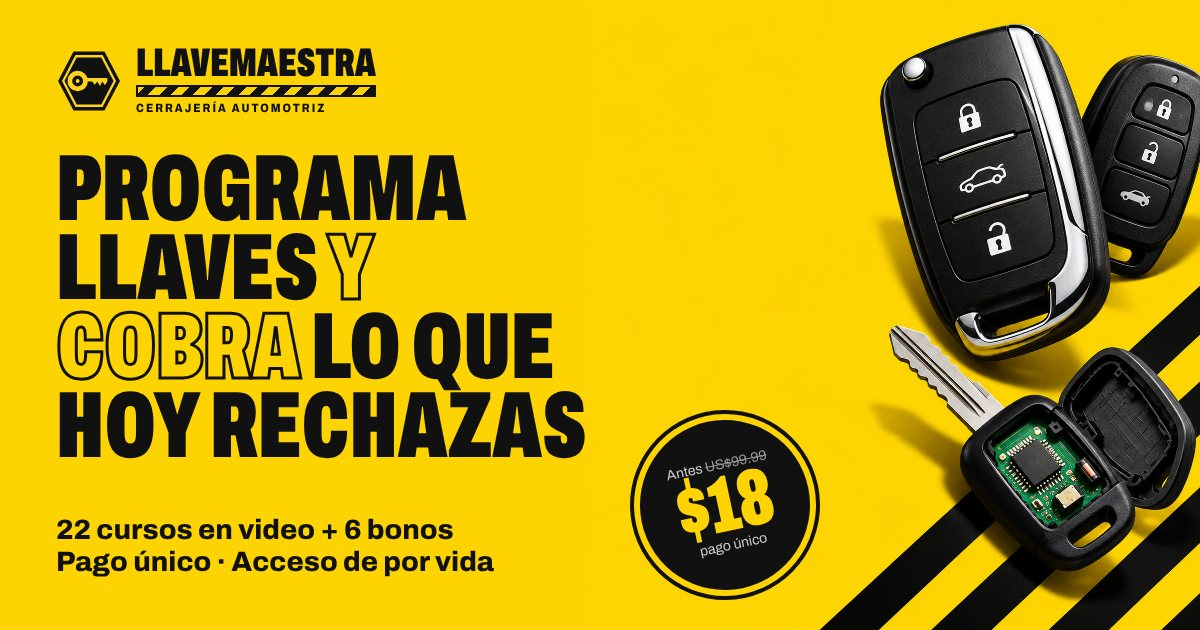
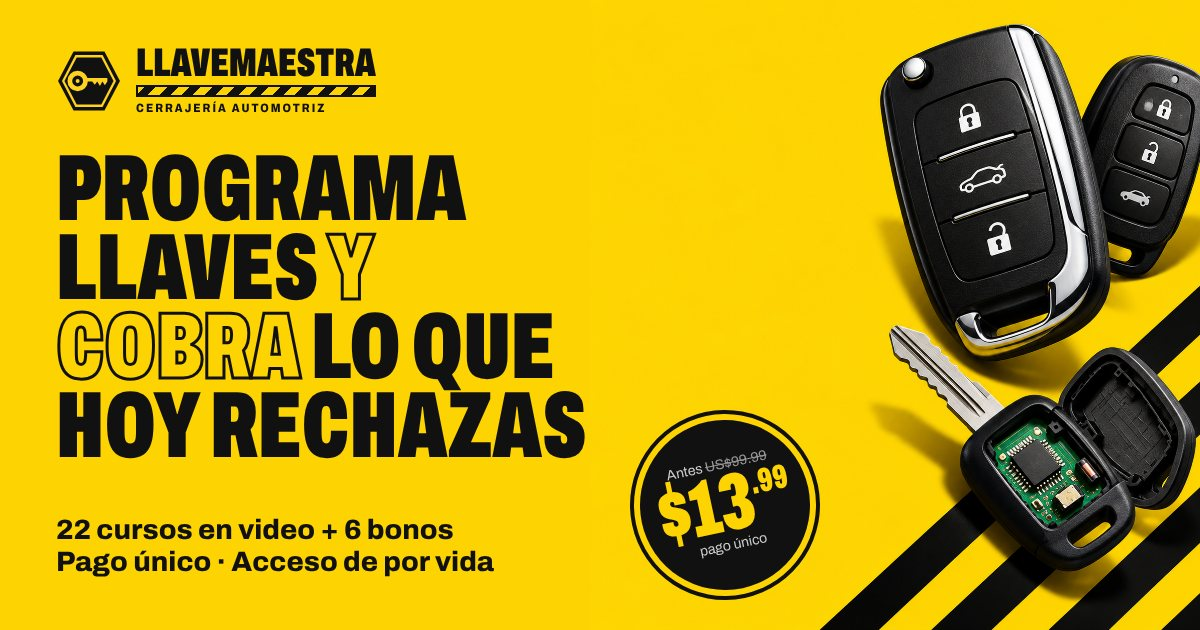
Precio nuevo: US$13.99 en toda la página, la imagen para compartir y los eventos de pago (Meta y TikTok)
Claude-Session: https://claude.ai/code/session_01EyoJfkpmuFfUU1exCTMhcR

Changed region(s): [[0.5242, 0.7238, 0.6783, 0.8746]]

diff --git a/index.html b/index.html
@@ -3,11 +3,11 @@
 <head>
 <meta charset="utf-8">
 <meta name="viewport" content="width=device-width, initial-scale=1">
-<title>Cerrajería Automotriz | 22 cursos en video + 6 bonos por US$18</title>
-<meta name="description" content="Aprende a programar llaves con chip, controles remotos e inmovilizadores en más de 45 marcas. 22 cursos en video + 6 bonos. Pago único de US$18, acceso de por vida y garantía de 7 días.">
-<meta property="og:title" content="Programa llaves y cobra lo que hoy rechazas: 22 cursos + 6 bonos por US$18">
+<title>Cerrajería Automotriz | 22 cursos en video + 6 bonos por US$13.99</title>
+<meta name="description" content="Aprende a programar llaves con chip, controles remotos e inmovilizadores en más de 45 marcas. 22 cursos en video + 6 bonos. Pago único de US$13.99, acceso de por vida y garantía de 7 días.">
+<meta property="og:title" content="Programa llaves y cobra lo que hoy rechazas: 22 cursos + 6 bonos por US$13.99">
 <meta property="og:description" content="Llaves con chip, controles e inmovilizadores en más de 45 marcas. Pago único, acceso de por vida y garantía de 7 días.">
-<meta property="og:image" content="https://cerrajeriamaster.online/img/compartir.jpg?v=3">
+<meta property="og:image" content="https://cerrajeriamaster.online/img/compartir.jpg?v=4">
 <meta property="og:url" content="https://cerrajeriamaster.online/">
 <meta property="og:image:width" content="1200">
 <meta property="og:image:height" content="630">
@@ -133,6 +133,7 @@ p{margin:0}
 .sticker{position:absolute;left:-64px;top:34px;z-index:2;width:200px;height:200px;border-radius:50%;background:var(--k);color:#fff;display:grid;place-items:center;text-align:center;transform:rotate(-12deg);box-shadow:0 0 0 7px var(--y),0 0 0 11px var(--k)}
 .sticker small{display:block;font-size:14px;color:#CFCFCF;font-weight:600}
 .sticker s{color:#9A9A9A;text-decoration-thickness:2px}
+.sticker b sup,.t-price sup{font-size:.42em;vertical-align:top;position:relative;top:.12em;margin-left:1px;letter-spacing:0}
 .sticker b{display:block;font-stretch:62%;font-weight:900;font-size:92px;line-height:.82;color:var(--y);letter-spacing:-.02em}
 @media (prefers-reduced-motion:no-preference){
   .sticker{animation:slap .7s cubic-bezier(.2,1.6,.4,1) .25s both}
@@ -428,12 +429,12 @@ body.st-on .wa{bottom:96px}
 </head>
 <body>
 
-<div class="topbar"><div class="wrap"><span>El precio de US$18 termina hoy en</span><span class="clock" role="timer" aria-live="off"><span data-cd="h">00</span>:<span data-cd="m">00</span>:<span data-cd="s">00</span></span></div></div>
+<div class="topbar"><div class="wrap"><span>El precio de US$13.99 termina hoy en</span><span class="clock" role="timer" aria-live="off"><span data-cd="h">00</span>:<span data-cd="m">00</span>:<span data-cd="s">00</span></span></div></div>
 
 <nav class="nav" aria-label="Principal"><div class="wrap">
 <a class="logo" href="#" aria-label="LlaveMaestra, inicio"><svg viewBox="0 0 64 64" aria-hidden="true"><path d="M17 3.5h30L62 32 47 60.5H17L2 32z" fill="#111111"/><path d="M19.5 8h25L57 32 44.5 56h-25L7 32z" fill="none" stroke="#FFD21F" stroke-width="2.2"/><circle cx="21" cy="32" r="7.6" fill="none" stroke="#FFD21F" stroke-width="4.6"/><circle cx="21" cy="32" r="1.9" fill="#FFD21F"/><path d="M28.2 29h21.6v3.6l-2.4 3.4-2.4-3.4-2.4 4.2-2.6-4.2-2.4 3-2.4-3h-7z" fill="#FFD21F"/></svg><span class="lw"><b>LlaveMaestra</b><i class="lt" aria-hidden="true"></i><small>Cerrajería automotriz</small></span></a>
 <div class="nav-links"><a href="#temario">Temario</a><a href="#bonos">Bonos</a><a href="#opiniones">Opiniones</a><a href="#oferta">Precio</a></div>
-<a class="nbtn" href="https://pay.hotmart.com/O107812947O?checkoutMode=10">Comprar<span class="ns">&nbsp;US$18</span></a>
+<a class="nbtn" href="https://pay.hotmart.com/O107812947O?checkoutMode=10">Comprar<span class="ns">&nbsp;US$13.99</span></a>
 </div></nav>
 <div class="tape" aria-hidden="true"></div>
 
@@ -442,11 +443,11 @@ body.st-on .wa{bottom:96px}
   <div class="proof"><span class="stars" aria-label="4.8 de 5"><svg viewBox="0 0 24 24" aria-hidden="true"><path fill="#111" d="M12 2.8l2.8 5.9 6.4.8-4.7 4.4 1.2 6.4L12 17.2l-5.7 3.1 1.2-6.4L2.8 9.5l6.4-.8z"/></svg><svg viewBox="0 0 24 24" aria-hidden="true"><path fill="#111" d="M12 2.8l2.8 5.9 6.4.8-4.7 4.4 1.2 6.4L12 17.2l-5.7 3.1 1.2-6.4L2.8 9.5l6.4-.8z"/></svg><svg viewBox="0 0 24 24" aria-hidden="true"><path fill="#111" d="M12 2.8l2.8 5.9 6.4.8-4.7 4.4 1.2 6.4L12 17.2l-5.7 3.1 1.2-6.4L2.8 9.5l6.4-.8z"/></svg><svg viewBox="0 0 24 24" aria-hidden="true"><path fill="#111" d="M12 2.8l2.8 5.9 6.4.8-4.7 4.4 1.2 6.4L12 17.2l-5.7 3.1 1.2-6.4L2.8 9.5l6.4-.8z"/></svg><svg viewBox="0 0 24 24" aria-hidden="true"><path fill="#111" d="M12 2.8l2.8 5.9 6.4.8-4.7 4.4 1.2 6.4L12 17.2l-5.7 3.1 1.2-6.4L2.8 9.5l6.4-.8z"/></svg></span><span>4.8 de valoración</span><span>+2.163 alumnos en Latinoamérica</span></div>
   <h1>Programa llaves <span class="o">y cobra</span> lo que hoy rechazas</h1>
   <p class="lead">22 cursos en video y 6 bonos para aprender llaves con chip, controles e inmovilizadores en más de 45 marcas. Desde el celular, a tu ritmo.</p>
-  <div class="hero-cta"><a class="btn tag-hero" href="https://pay.hotmart.com/O107812947O?checkoutMode=10">Quiero entrar por US$18</a><span class="g"><svg viewBox="0 0 24 24" aria-hidden="true"><path d="M12 22s8-4 8-10V5l-8-3-8 3v7c0 6 8 10 8 10z" fill="#111"/><path d="m8.5 12 2.5 2.5 4.5-5" fill="none" stroke="#FFD21F" stroke-width="2.4" stroke-linecap="round" stroke-linejoin="round"/></svg>Pago único. Garantía de 7 días por Hotmart.</span></div>
+  <div class="hero-cta"><a class="btn tag-hero" href="https://pay.hotmart.com/O107812947O?checkoutMode=10">Quiero entrar por US$13.99</a><span class="g"><svg viewBox="0 0 24 24" aria-hidden="true"><path d="M12 22s8-4 8-10V5l-8-3-8 3v7c0 6 8 10 8 10z" fill="#111"/><path d="m8.5 12 2.5 2.5 4.5-5" fill="none" stroke="#FFD21F" stroke-width="2.4" stroke-linecap="round" stroke-linejoin="round"/></svg>Pago único. Garantía de 7 días por Hotmart.</span></div>
 </div>
 <div class="stage">
   <div class="ph"><img src="img/fotos/llaves-1000.webp" srcset="img/fotos/llaves-640.webp 640w, img/fotos/llaves-1000.webp 1000w" sizes="(max-width:760px) 100vw, 45vw" alt="Llave de carro plegable, control remoto y llave con chip abierta sobre fondo amarillo" width="1000" height="1000" fetchpriority="high"></div>
-  <div class="sticker" aria-label="Antes 99.99 dólares, hoy 18 dólares, pago único"><div><small>Antes <s>US$99.99</s></small><b>$18</b><small>pago único</small></div></div>
+  <div class="sticker" aria-label="Antes 99.99 dólares, hoy 13.99 dólares, pago único"><div><small>Antes <s>US$99.99</s></small><b>$13<sup>.99</sup></b><small>pago único</small></div></div>
 </div>
 </div></header>
 
@@ -472,7 +473,7 @@ body.st-on .wa{bottom:96px}
   <div class="field"><label for="lc-n">Trabajos que rechazas por semana <output id="lc-no">2</output></label><input type="range" id="lc-n" min="1" max="15" value="2"></div>
   <div class="field"><label for="lc-p">Lo que cobras por trabajo <output id="lc-po">US$35</output></label><input type="range" id="lc-p" min="10" max="150" step="5" value="35"></div>
   <div class="calc-out"><div class="big"><small>Al mes</small><b id="lc-m">US$301</b></div><div><small>Al año</small><b id="lc-y">US$3.640</b></div></div>
-  <p class="calc-msg" id="lc-msg">El curso cuesta US$18: lo recuperas con tu primer trabajo.</p>
+  <p class="calc-msg" id="lc-msg">El curso cuesta US$13.99: lo recuperas con tu primer trabajo.</p>
   <a class="btn" href="https://pay.hotmart.com/O107812947O?checkoutMode=10">Quiero recuperar esa plata</a>
   <p class="fine">Ejemplo con 4,3 semanas por mes. Tus resultados dependen de tu práctica y tu zona.</p>
 </div>
@@ -516,7 +517,7 @@ body.st-on .wa{bottom:96px}
   <button type="button" class="bono" aria-label="Ver en grande el bono 5: Diagnóstico automotriz"><img src="img/bono-5-diagnostico.webp" data-full="img/bono-5-diagnostico.jpg" alt="Bono 5: Diagnóstico automotriz" width="400" height="400" loading="lazy" decoding="async"><span class="free">Gratis</span><div><small>Bono 5</small><b>Diagnóstico automotriz</b></div></button>
   <button type="button" class="bono" aria-label="Ver en grande el bono 6: Todo en un solo lugar"><img src="img/bono-6-todo.webp" data-full="img/bono-6-todo.jpg" alt="Bono 6: Todo en un solo lugar" width="400" height="400" loading="lazy" decoding="async"><span class="free">Gratis</span><div><small>Bono 6</small><b>Todo en un solo lugar</b></div></button>
 </div>
-<div class="cta-row"><a class="btn" href="https://pay.hotmart.com/O107812947O?checkoutMode=10">Quiero todo por US$18</a><p class="note">22 cursos + 6 bonos. Pago único. Garantía de 7 días.</p></div>
+<div class="cta-row"><a class="btn" href="https://pay.hotmart.com/O107812947O?checkoutMode=10">Quiero todo por US$13.99</a><p class="note">22 cursos + 6 bonos. Pago único. Garantía de 7 días.</p></div>
 </div></section>
 
 <section class="sec" id="marcas"><div class="wrap">
@@ -625,7 +626,7 @@ body.st-on .wa{bottom:96px}
 <section class="sec sec-y" id="oferta"><div class="wrap">
 <div class="offer">
   <div>
-    <h2>Todo esto <span class="o">por US$18</span></h2>
+    <h2>Todo esto <span class="o">por US$13.99</span></h2>
     <ul class="inc">
       <li><svg viewBox="0 0 24 24" aria-hidden="true"><circle cx="12" cy="12" r="11" fill="#111"/><path d="m7.5 12.5 3 3 6-6.5" fill="none" stroke="#FFD21F" stroke-width="2.8" stroke-linecap="round" stroke-linejoin="round"/></svg>22 cursos en video, de cero a avanzado</li>
       <li><svg viewBox="0 0 24 24" aria-hidden="true"><circle cx="12" cy="12" r="11" fill="#111"/><path d="m7.5 12.5 3 3 6-6.5" fill="none" stroke="#FFD21F" stroke-width="2.8" stroke-linecap="round" stroke-linejoin="round"/></svg>Llaves con chip, controles e inmovilizadores</li>
@@ -637,10 +638,10 @@ body.st-on .wa{bottom:96px}
     </ul>
   </div>
   <div class="ticket box">
-    <div class="sticker" aria-hidden="true"><div><small>Ahorras</small><b>82%</b></div></div>
+    <div class="sticker" aria-hidden="true"><div><small>Ahorras</small><b>86%</b></div></div>
     <p class="t-k">Precio de hoy</p>
     <p class="t-was">Antes <s>US$99.99</s></p>
-    <p class="t-price" aria-label="Hoy 18 dólares"><small>US$</small>18</p>
+    <p class="t-price" aria-label="Hoy 13.99 dólares"><small>US$</small>13<sup>.99</sup></p>
     <p class="t-sub">Pago único. Sin mensualidades.</p>
     <a class="btn" href="https://pay.hotmart.com/O107812947O?checkoutMode=10">Comprar ahora <svg viewBox="0 0 24 24" fill="none" stroke="currentColor" stroke-width="2.4" stroke-linecap="round" stroke-linejoin="round" aria-hidden="true"><rect x="4" y="11" width="16" height="10" rx="2"/><path d="M8 11V7a4 4 0 0 1 8 0v4"/></svg></a>
     <p class="t-cd">Este precio termina en<span class="clock" role="timer" aria-live="off"><span data-cd="h">00</span>:<span data-cd="m">00</span>:<span data-cd="s">00</span></span></p>
@@ -668,7 +669,7 @@ body.st-on .wa{bottom:96px}
 <div class="head center"><h2>Preguntas <span class="o">frecuentes</span></h2></div>
 <div class="faq">
   <details><summary>¿Cómo recibo el acceso?<svg viewBox="0 0 24 24" fill="none" stroke="currentColor" stroke-width="2.2" stroke-linecap="round" stroke-linejoin="round" aria-hidden="true"><path d="M12 5v14M5 12h14"/></svg></summary><p>La entrega es digital. Apenas se confirma el pago, Hotmart te envía a tu correo el acceso a los cursos.</p></details>
-  <details><summary>¿Tengo que pagar mensualidades?<svg viewBox="0 0 24 24" fill="none" stroke="currentColor" stroke-width="2.2" stroke-linecap="round" stroke-linejoin="round" aria-hidden="true"><path d="M12 5v14M5 12h14"/></svg></summary><p>No. Es un pago único de US$18 y el acceso es de por vida.</p></details>
+  <details><summary>¿Tengo que pagar mensualidades?<svg viewBox="0 0 24 24" fill="none" stroke="currentColor" stroke-width="2.2" stroke-linecap="round" stroke-linejoin="round" aria-hidden="true"><path d="M12 5v14M5 12h14"/></svg></summary><p>No. Es un pago único de US$13.99 y el acceso es de por vida.</p></details>
   <details><summary>¿Puedo pagar desde mi país?<svg viewBox="0 0 24 24" fill="none" stroke="currentColor" stroke-width="2.2" stroke-linecap="round" stroke-linejoin="round" aria-hidden="true"><path d="M12 5v14M5 12h14"/></svg></summary><p>Sí. La página de pago te muestra el precio en tu moneda y los medios de tu país: tarjeta, PayPal, PSE, Nequi, Efecty, OXXO, SPEI, Mercado Pago, Yape, PagoEfectivo, Servipag o MACH, según dónde estés.</p></details>
   <details><summary>¿Necesito experiencia?<svg viewBox="0 0 24 24" fill="none" stroke="currentColor" stroke-width="2.2" stroke-linecap="round" stroke-linejoin="round" aria-hidden="true"><path d="M12 5v14M5 12h14"/></svg></summary><p>No. El programa empieza desde los fundamentos y avanza hasta la programación por marca y el contenido avanzado.</p></details>
   <details><summary>¿Desde dónde puedo ver los cursos?<svg viewBox="0 0 24 24" fill="none" stroke="currentColor" stroke-width="2.2" stroke-linecap="round" stroke-linejoin="round" aria-hidden="true"><path d="M12 5v14M5 12h14"/></svg></summary><p>Desde tu celular, tablet o PC, cuando quieras.</p></details>
@@ -682,13 +683,13 @@ body.st-on .wa{bottom:96px}
 <div class="tape" aria-hidden="true"></div>
 <section class="final"><div class="wrap">
 <h2>Tu primer trabajo <span class="o">paga el curso</span></h2>
-<p>22 cursos en video y 6 bonos por un pago único de US$18, con garantía de 7 días.</p>
-<a class="btn" href="https://pay.hotmart.com/O107812947O?checkoutMode=10">Quiero entrar por US$18</a>
+<p>22 cursos en video y 6 bonos por un pago único de US$13.99, con garantía de 7 días.</p>
+<a class="btn" href="https://pay.hotmart.com/O107812947O?checkoutMode=10">Quiero entrar por US$13.99</a>
 </div></section>
 <footer class="foot"><div class="wrap"><a class="logo" href="#"><svg viewBox="0 0 64 64" aria-hidden="true"><path d="M17 3.5h30L62 32 47 60.5H17L2 32z" fill="#2B2B2B"/><path d="M19.5 8h25L57 32 44.5 56h-25L7 32z" fill="none" stroke="#FFD21F" stroke-width="2.2"/><circle cx="21" cy="32" r="7.6" fill="none" stroke="#FFD21F" stroke-width="4.6"/><circle cx="21" cy="32" r="1.9" fill="#FFD21F"/><path d="M28.2 29h21.6v3.6l-2.4 3.4-2.4-3.4-2.4 4.2-2.6-4.2-2.4 3-2.4-3h-7z" fill="#FFD21F"/></svg><span class="lw"><b>LlaveMaestra</b><i class="lt" aria-hidden="true"></i><small>Cerrajería automotriz</small></span></a><p>© 2026 LlaveMaestra. Todos los derechos reservados.</p></div></footer>
 
 <a class="wa" href="https://wa.me/573022182392?text=Hola%2C%20quiero%20informaci%C3%B3n%20del%20curso%20de%20Cerrajer%C3%ADa%20Automotriz" target="_blank" rel="noopener" aria-label="Escríbenos por WhatsApp"><svg viewBox="0 0 24 24" aria-hidden="true"><path fill="currentColor" d="M17.47 14.38c-.3-.15-1.76-.87-2.03-.97-.27-.1-.47-.15-.67.15-.2.3-.77.97-.94 1.17-.17.2-.35.22-.65.07-.3-.15-1.26-.46-2.4-1.48-.89-.79-1.49-1.77-1.66-2.07-.17-.3-.02-.46.13-.61.14-.13.3-.35.45-.52.15-.17.2-.3.3-.5.1-.2.05-.37-.02-.52-.07-.15-.67-1.62-.92-2.22-.24-.58-.49-.5-.67-.51h-.57c-.2 0-.52.07-.79.37-.27.3-1.04 1.02-1.04 2.48s1.07 2.88 1.21 3.08c.15.2 2.1 3.2 5.08 4.49.71.31 1.26.49 1.69.63.71.23 1.36.2 1.87.12.57-.08 1.76-.72 2.01-1.42.25-.7.25-1.29.17-1.42-.07-.12-.27-.2-.57-.35M12.05 21.79h-.01a9.87 9.87 0 0 1-5.03-1.38l-.36-.21-3.74.98 1-3.65-.24-.37a9.86 9.86 0 0 1-1.51-5.26c0-5.45 4.44-9.88 9.89-9.88 2.64 0 5.12 1.03 6.99 2.9a9.82 9.82 0 0 1 2.89 6.99c0 5.45-4.44 9.88-9.88 9.88M20.46 3.49A11.82 11.82 0 0 0 12.05 0C5.5 0 .16 5.34.16 11.89c0 2.1.55 4.14 1.59 5.95L.06 24l6.31-1.65a11.88 11.88 0 0 0 5.68 1.45h.01c6.55 0 11.89-5.34 11.89-11.89 0-3.18-1.24-6.16-3.49-8.41"/></svg></a>
-<div class="sticky" aria-label="Comprar"><div class="sp"><s>US$99.99</s><b>$18</b></div><a class="btn" href="https://pay.hotmart.com/O107812947O?checkoutMode=10">Comprar ahora</a></div>
+<div class="sticky" aria-label="Comprar"><div class="sp"><s>US$99.99</s><b>$13.99</b></div><a class="btn" href="https://pay.hotmart.com/O107812947O?checkoutMode=10">Comprar ahora</a></div>
 <div class="lb" id="lb" role="dialog" aria-modal="true" aria-label="Bono ampliado"><button type="button" aria-label="Cerrar">×</button><img alt=""></div>
 
 <script>
@@ -710,7 +711,7 @@ safe(function(){
   function f(v){return 'US$'+Math.round(v).toLocaleString('es-CO');}
   function calc(){var a=+n.value,b=+p.value;document.getElementById('lc-no').textContent=a;document.getElementById('lc-po').textContent=f(b);
     document.getElementById('lc-m').textContent=f(a*b*4.3);document.getElementById('lc-y').textContent=f(a*b*52);
-    var k=Math.ceil(18/b);document.getElementById('lc-msg').innerHTML='El curso cuesta <b>US$18</b>: lo recuperas '+(k<=1?'con tu <b>primer trabajo</b>':'con tus <b>'+k+' primeros trabajos</b>')+'.';}
+    var k=Math.ceil(13.99/b);document.getElementById('lc-msg').innerHTML='El curso cuesta <b>US$13.99</b>: lo recuperas '+(k<=1?'con tu <b>primer trabajo</b>':'con tus <b>'+k+' primeros trabajos</b>')+'.';}
   n.addEventListener('input',calc);p.addEventListener('input',calc);calc();
 });
 /* bonos: vista ampliada */
@@ -763,8 +764,8 @@ safe(function(){
   tag('version_pagina','v3_amarilla');
   document.addEventListener('click',function(e){var a=e.target.closest&&e.target.closest('a,button,summary');if(!a)return;var h=a.getAttribute('href')||'';
     if(h.indexOf('https://pay.hotmart.com/')===0){ev('click_pagar');
-      try{if(window.fbq)fbq('track','InitiateCheckout',{value:18,currency:'USD'});}catch(x){}
-      try{if(window.ttq)ttq.track('InitiateCheckout',{content_name:'Cerrajería Automotriz',value:18,currency:'USD'});}catch(x){}
+      try{if(window.fbq)fbq('track','InitiateCheckout',{value:13.99,currency:'USD'});}catch(x){}
+      try{if(window.ttq)ttq.track('InitiateCheckout',{content_name:'Cerrajería Automotriz',value:13.99,currency:'USD'});}catch(x){}
       ev(a.closest('.sticky')?'click_pagar_barra':a.closest('#oferta')?'click_pagar_oferta':a.closest('.tag-hero')?'click_pagar_inicio':'click_pagar_otro');}
     else if(h.indexOf('wa.me')>=0){ev('click_whatsapp');if(a.closest('.payhelp'))ev('whatsapp_ayuda_pago');}
     else if(h==='#oferta'){ev('ir_a_oferta');}
